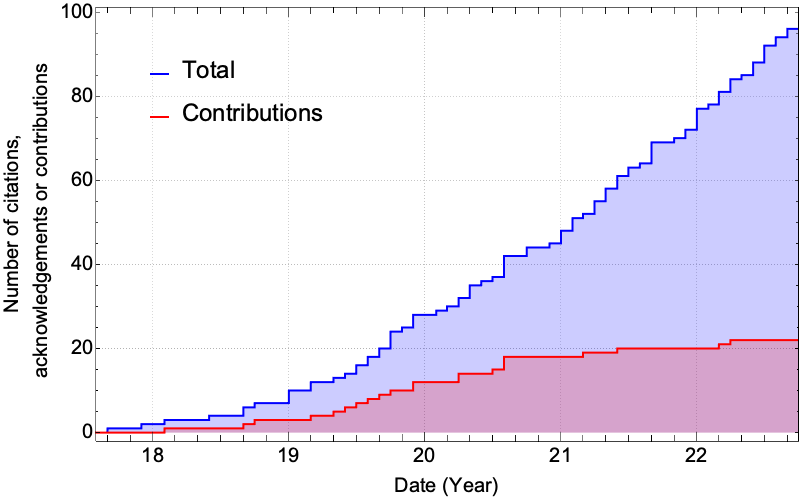
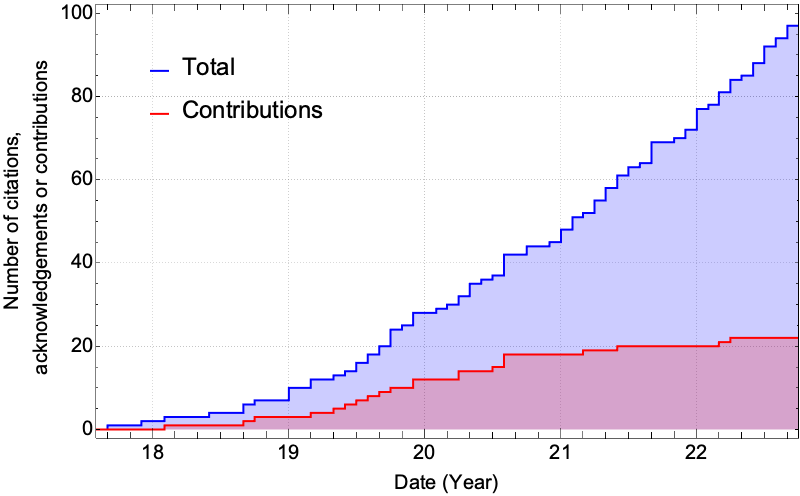
Add paper that cites the BHPToolkit

diff --git a/users.md b/users.md
@@ -19,6 +19,8 @@ The graph below show the accumulated citations to the Toolkit over time. The blu
 
 Below is a list of research papers that have used or extended the Toolkit. Papers that have contributed code or data to the Toolkit have a (*) after them.
 
+97\. "Self-force regularization of a point particle for generic orbits in Kerr spacetime: electromagnetic and gravitational cases", Anna Heffernan, [arXiv:2209.05450](https://arxiv.org/abs/2209.05450)
+
 96\. "Self-force correction to the deflection angle in black-hole scattering: a scalar charge toy model", Leor Barack, Oliver Long, [arXiv:2209.03740](https://arxiv.org/abs/2209.03740)
 
 95\. "Eccentric binary black holes: Comparing numerical relativity and small mass-ratio perturbation theory", Antoni Ramos-Buades, Maarten van de Meent, Harald P. Pfeiffer, Hannes R. Rüter, Mark A. Scheel, Michael Boyle, Lawrence E. Kidder, [arXiv:2209.03390](https://arxiv.org/abs/2209.03390)
